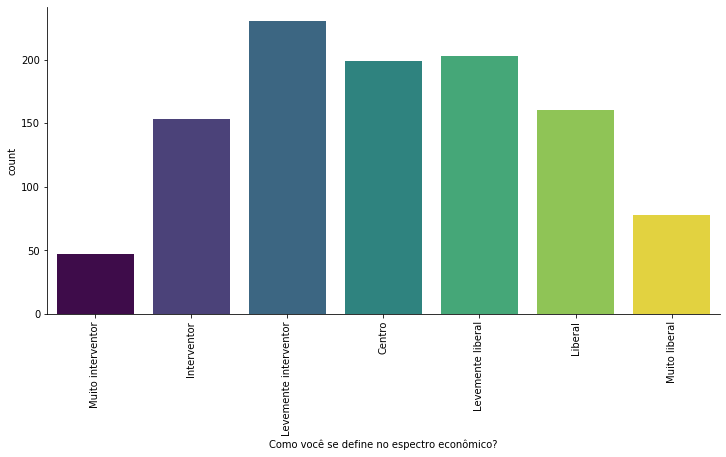
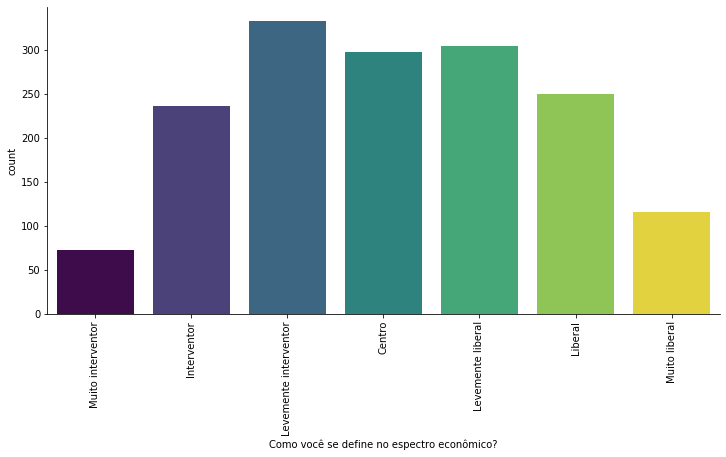
:arrow_up: new data

diff --git a/blog/censo-reddit-2019.html b/blog/censo-reddit-2019.html
@@ -59,7 +59,7 @@
                 Todos os anos é realizada uma pesquisa interna no <a href="https://www.reddit.com/r/brasil/">r/brasil</a> afim de melhor compreender os usuários do sub.
               </p>
               <p>
-                A pesquisa do ano de 2019 contou com <strong>1200</strong> participantes, que responderam cerca de <strong>100</strong> perguntas.
+                A pesquisa do ano de 2019 contou com <strong>1810</strong> participantes, que responderam cerca de <strong>100</strong> perguntas.
               </p>
             </div>
           </div>
@@ -240,12 +240,17 @@
       <div class="chart-container">
         <img src="../img/posts/reddit/degree.png" class="chart">
       </div>
+      <h3>4.1. Áreas de Formação</h3>
+      <p>A maior parte dos redditors é da área de exatas.</p>
+      <div class="chart-container">
+        <img src="../img/posts/reddit/knoledge_area.png" class="chart">
+      </div>
 
-      <h3>4.1. Grau de Formação por Religião</h3>
+      <h3>4.2. Grau de Formação por Religião</h3>
       <p>Ao comparar a religião com o Grau de Formação, é possível perceber uma polarização nas religiões muçulmandas, uma maioria Pós-graduado latto sensu entre os judeus e grande percentual de mestres e doutores entre mulçumanos e de religiões afro-brasileiros.</p>
       <div class="chart-container">
-          <img src="../img/posts/reddit/degree_by_religion.png" class="chart">
-        </div>
+        <img src="../img/posts/reddit/degree_by_religion.png" class="chart">
+      </div>
     </div>
   </section>
 
